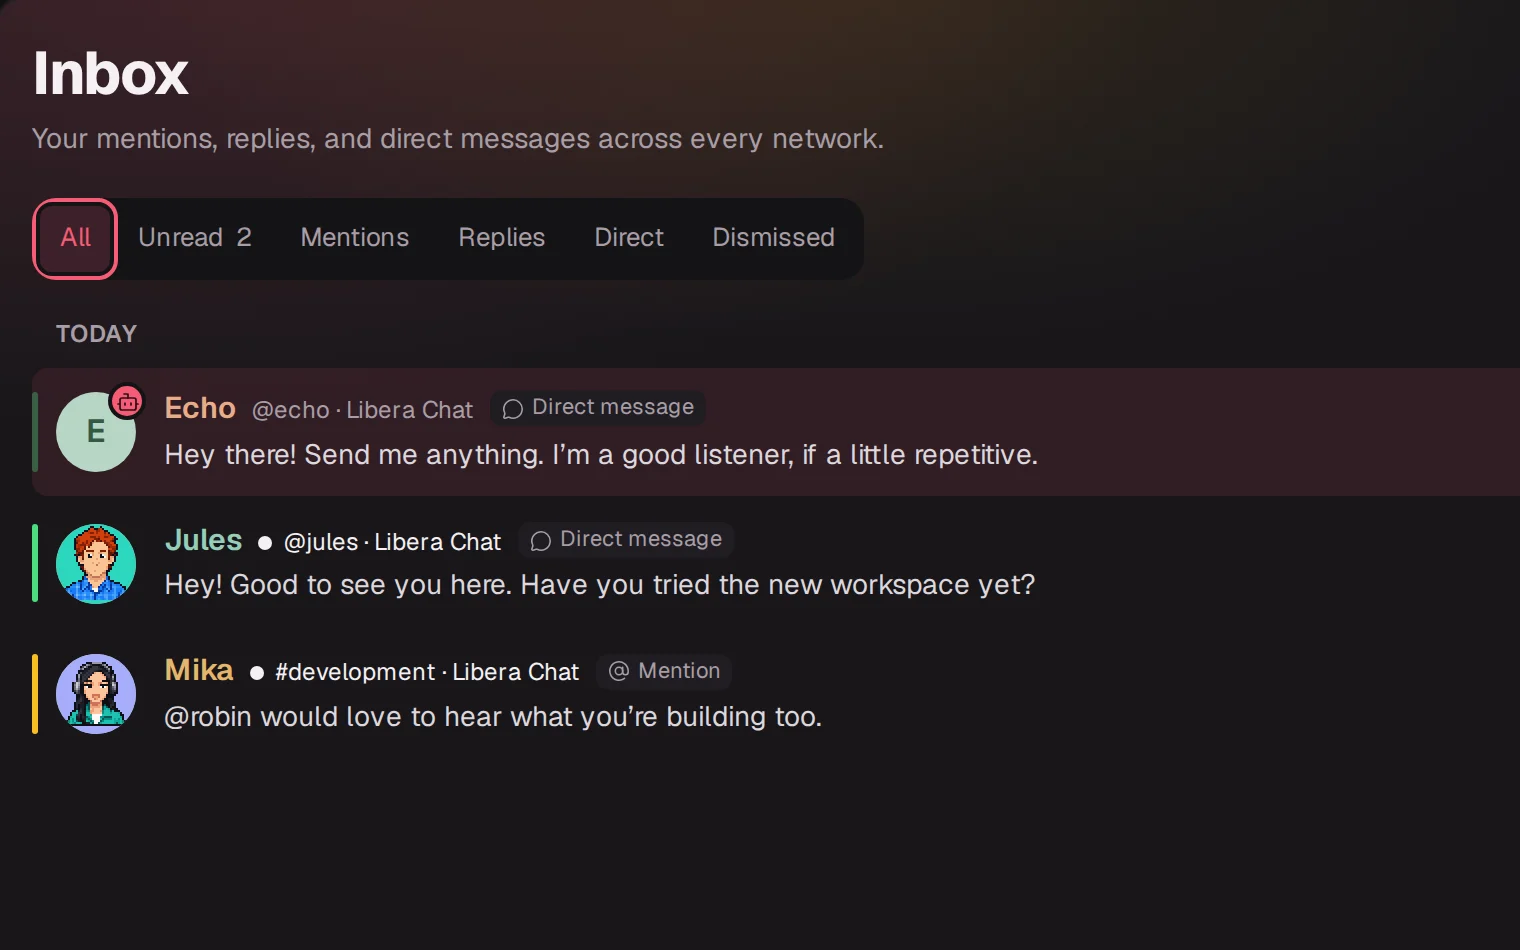
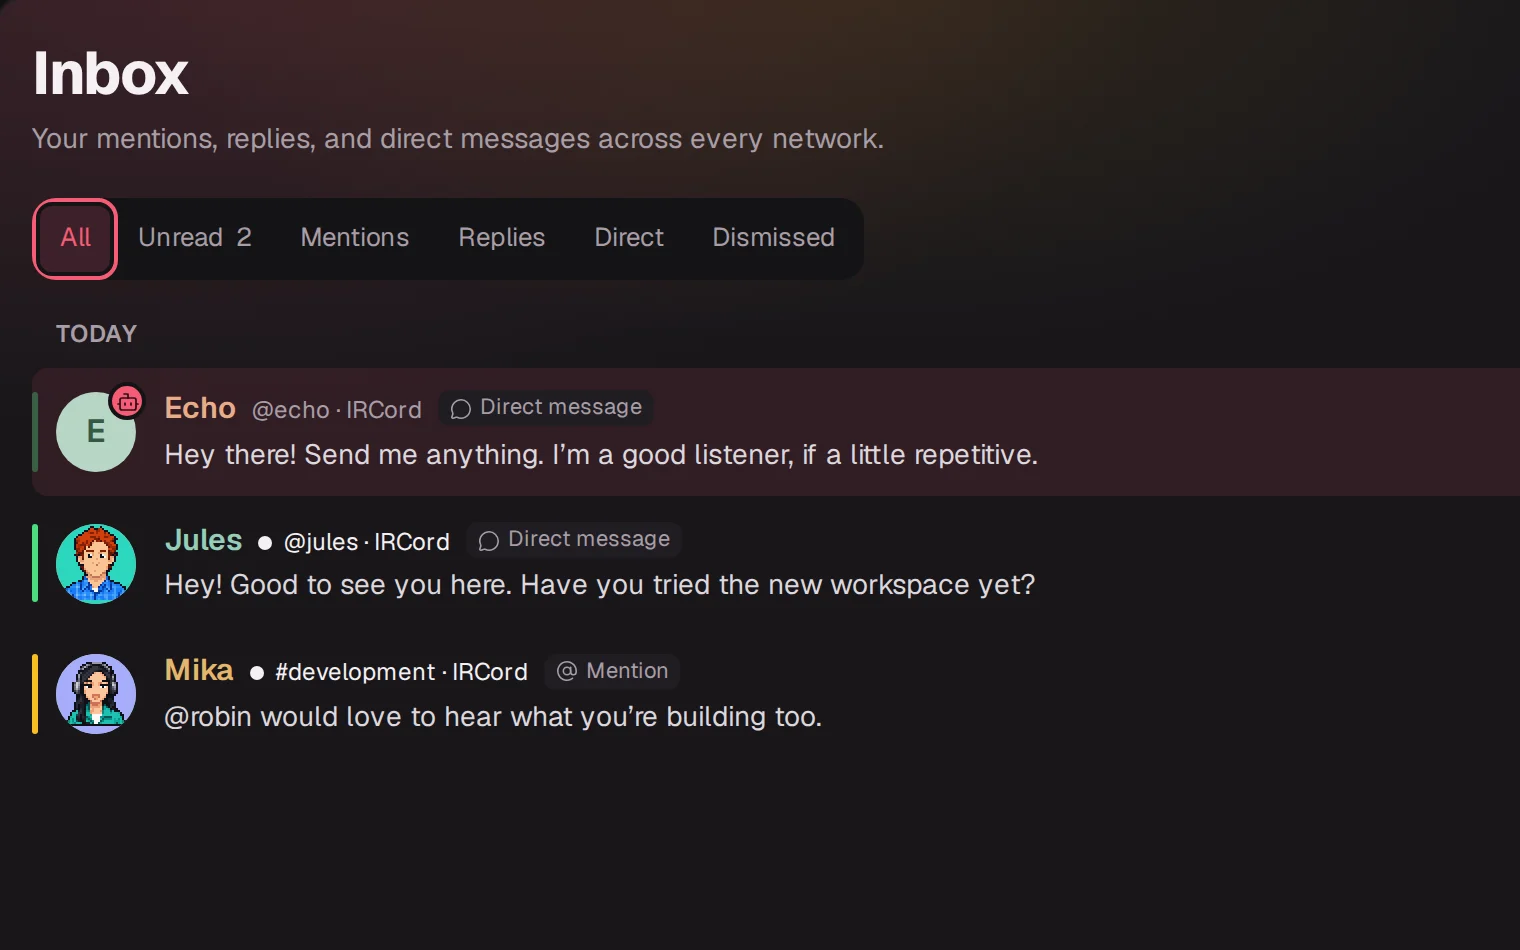
Show the demo network as IRCord in the website screenshots (#326)
Refs #21

Changed region(s): [[0.2164, 0.3968, 0.4638, 0.4579], [0.2474, 0.5495, 0.4947, 0.58], [0.2783, 0.7021, 0.4638, 0.7326]]

diff --git a/README.md b/README.md
@@ -855,7 +855,7 @@ Retake them after a visible change to the app:
 
 The script signs up a disposable demo account and uses the Hibiki scheme.
 It replaces the demo's photos with the project's pixel-art profile pictures and a drawn picture.
-It shows the signed-in person as "Robin".
+It shows the signed-in person as "Robin" and the demo's Libera Chat network as "IRCord".
 
 ### Website image
 
